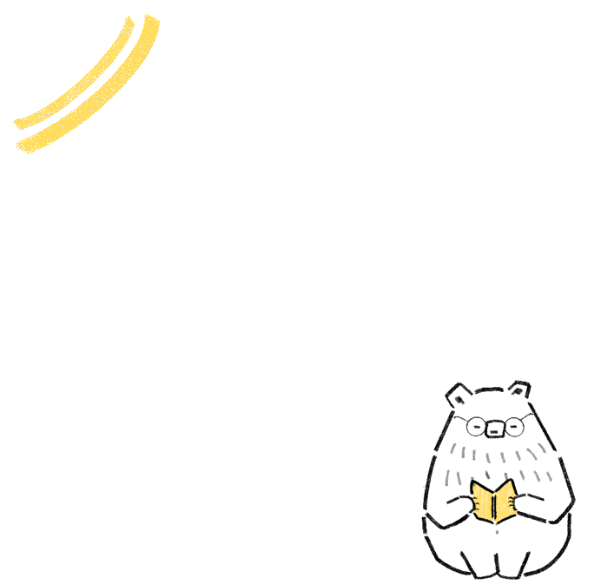
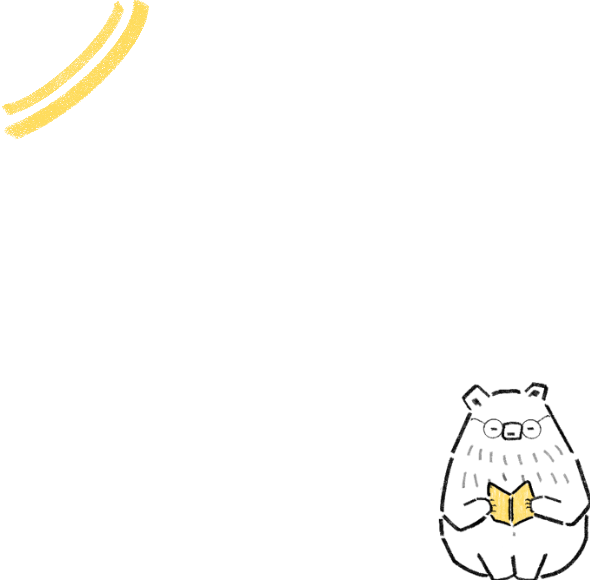
Add files via upload

Changed region(s): [[0.7017, 0.6517, 1.0, 1.0], [0.0, 0.0, 0.2746, 0.2793]]

diff --git a/script.js b/script.js
@@ -357,7 +357,7 @@ function initPhotoBooth() {
      but 668px on the download canvas, and fractions map onto both
      without any conversion maths.                                     */
   const STICKER_DIR   = '';
-  const STICKER_FILES = ['stickers/Bearlogo2.png','stickers/stickerTEST1.png', 'stickers/TEST2.png', 'stickers/sparkle.png', 'stickers/bubble.png'];
+  const STICKER_FILES = ['Bearlogo3.png','stickers/', 'stickers/TEST2.png', 'stickers/', 'stickers/'];/*---------Sticker eddition edit line Uploads here-----------------*/
   /* Sticker width as a fraction of the strip's width.
      One photo is 600px of the strip's 668px, so 0.90 makes a sticker
      exactly one photo wide. Reference points:
